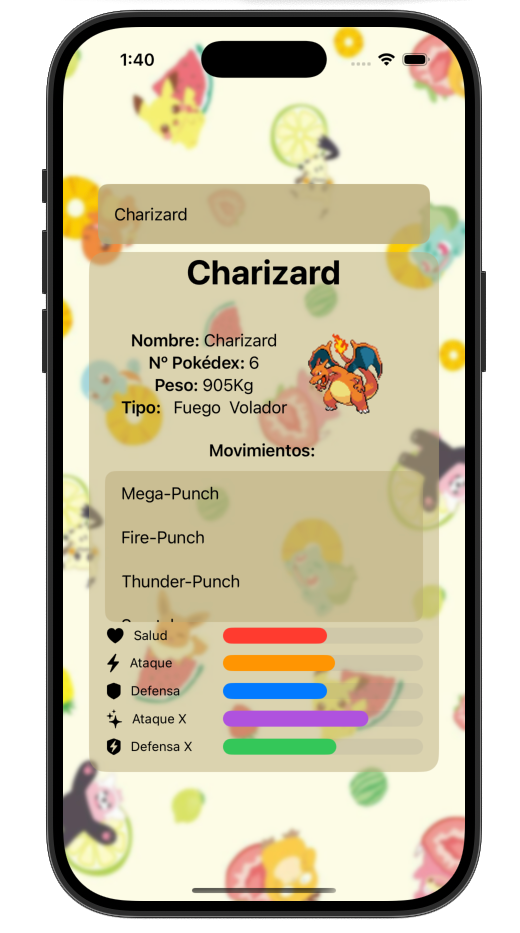
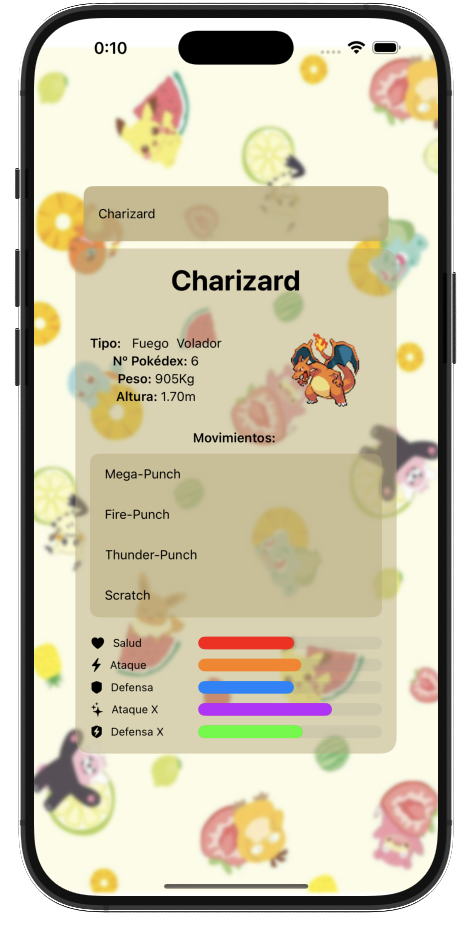
Code optimization and visual improvements

diff --git a/Pokemon Wiki/ContentView.swift b/Pokemon Wiki/ContentView.swift
@@ -8,12 +8,13 @@
 import SwiftUI
 
 struct ContentView: View {
-    //let defaultURL:String = "https://raw.githubusercontent.com/PokeAPI/sprites/master/sprites/pokemon/back/25.png"
+    @State var pokeName:String = ""
     @State var wrapper:ApiNetwork.Wrapper? = nil
-    @State var defaultWrapper:ApiNetwork.Wrapper = ApiNetwork.Wrapper(id: 0, name: "Sin nombre", weight: 0, sprites: ApiNetwork.Sprites(front_default: "https://raw.githubusercontent.com/PokeAPI/sprites/master/sprites/pokemon/0.png"), types: [ApiNetwork.Types(type: ApiNetwork.Type2(name: ""))],
+    @State var defaultWrapper:ApiNetwork.Wrapper = ApiNetwork.Wrapper(id: 0, name: "", weight: 0, height: 0 ,
+                                                                      sprites: ApiNetwork.Sprites(front_default: "https://raw.githubusercontent.com/PokeAPI/sprites/master/sprites/pokemon/0.png"),
+                                                                      types: [ApiNetwork.Types(type: ApiNetwork.Type2(name: ""))],
                                                                       moves: [],
                                                                       stats: [ApiNetwork.Stats(base_stat: 0, stat: ApiNetwork.Stat(name: "")), ApiNetwork.Stats(base_stat: 0, stat: ApiNetwork.Stat(name: "")), ApiNetwork.Stats(base_stat: 0, stat: ApiNetwork.Stat(name: "")), ApiNetwork.Stats(base_stat: 0, stat: ApiNetwork.Stat(name: "")), ApiNetwork.Stats(base_stat: 0, stat: ApiNetwork.Stat(name: ""))])
-    @State var pokeName:String = ""
     
     var body: some View {
         ZStack {
@@ -30,9 +31,9 @@ struct ContentView: View {
                         Task{
                             do{
                                 wrapper = try await ApiNetwork().getPokeByName(name: pokeName.lowercased())
-                                print(wrapper!.sprites.front_default)
+
                             }catch{
-                                print("ERROR")
+                                print("Error al obtener datos desde la API")
                             }
                         }
                     }
@@ -48,74 +49,57 @@ struct CreateResultView:View{
     var body: some View{
         
         VStack {
-            Text(mywrap.name.capitalized).font(.largeTitle).bold()
+            Text(mywrap.name.capitalized).font(.largeTitle).bold().padding(.top)
             HStack{
                 VStack{
-                    Text("Nombre: ").bold() + Text(mywrap.name.capitalized)
-                    Text("Nº Pokédex: ").bold() + Text("\(mywrap.id)")
-                    Text("Peso: ").bold() + Text("\(mywrap.weight)Kg")
                     HStack{
                         Text("Tipo: ").bold()
                         ForEach(mywrap.types, id: \.type.name) { type in
                             Text(typeTranslator(value: type.type.name))
                         }
                     }
-                    HStack{
-                        
-                    }
-                   
+                    Text("Nº Pokédex: ").bold() + Text("\(mywrap.id)")
+                    Text("Peso: ").bold() + Text("\(mywrap.weight)Kg")
+                    Text("Altura: ").bold() + Text(String(format: "%.2f", Float(mywrap.height) / 10) + "m")
                 }
+                Spacer()
                 AsyncImage(url: URL(string: mywrap.sprites.front_default))
                     .frame(width: 120, height: 120)
             }
             Text("Movimientos: ").bold()
             List(mywrap.moves, id: \.move.name){ move in
                 Text(move.move.name.capitalized).listRowSeparator(.hidden).listRowBackground(Color("component").opacity(0.5)).cornerRadius(10)
-            }.frame(maxWidth: 320, maxHeight: 200).listStyle(.plain).cornerRadius(10)
-            /*ForEach(mywrap.stats, id: \.stat.name){ stat in
-                Text(stat.stat.name).bold() + Text(String(stat.base_stat))
-            }*/
-            HStack{
-                Image(systemName: "heart.fill")
-                Text("Salud").font(.footnote)
-                Spacer()
-                Gauge(value: mapToRange(value: Double(mywrap.stats[0].base_stat), inputMin: 0.0, inputMax: 150.0, outputMin: 0.0, outputMax: 1.0)) {}.frame(minWidth: 200, maxWidth: 200, minHeight: 10, maxHeight: 10).tint(.red)
-            }
-            HStack{
-                Image(systemName: "bolt.fill")
-                Text("Ataque").font(.footnote)
-                Spacer()
-                Gauge(value: mapToRange(value: Double(mywrap.stats[1].base_stat), inputMin: 0.0, inputMax: 150.0, outputMin: 0.0, outputMax: 1.0)) {}.frame(minWidth: 200, maxWidth: 200, minHeight: 10, maxHeight: 10).tint(.orange)
-            }
-            HStack{
-                Image(systemName: "shield.fill")
-                Text("Defensa").font(.footnote)
-                Spacer()
-                Gauge(value: mapToRange(value: Double(mywrap.stats[2].base_stat), inputMin: 0.0, inputMax: 150.0, outputMin: 0.0, outputMax: 1.0)) {}.frame(minWidth: 200, maxWidth: 200, minHeight: 10, maxHeight: 10).tint(.blue)
-            }
-            HStack{
-                Image(systemName: "sparkles")
-                Text("Ataque X").font(.footnote)
-                Spacer()
-                Gauge(value: mapToRange(value: Double(mywrap.stats[3].base_stat), inputMin: 0.0, inputMax: 150.0, outputMin: 0.0, outputMax: 1.0)) {}.frame(minWidth: 200, maxWidth: 200, minHeight: 10, maxHeight: 10).tint(.purple)
-            }
-            HStack{
-                Image(systemName: "bolt.shield.fill")
-                Text("Defensa X").font(.footnote)
-                Spacer()
-                Gauge(value: mapToRange(value: Double(mywrap.stats[4].base_stat), inputMin: 0.0, inputMax: 150.0, outputMin: 0.0, outputMax: 1.0)) {}.frame(minWidth: 200, maxWidth: 200, minHeight: 10, maxHeight: 10).tint(.green)
-            }.padding(.bottom)
+            }.frame(maxWidth: 320, maxHeight: 200).listStyle(.plain).cornerRadius(10).padding(.bottom)
+
+            // Medidores de estadísiticas
+            gaugeStatView(systemImage: "heart.fill", text: "Salud", stat: 0, wrap: mywrap, color: "stat_red") //Salud
+            gaugeStatView(systemImage: "bolt.fill", text: "Ataque", stat: 1, wrap: mywrap, color: "stat_orange") //Ataque
+            gaugeStatView(systemImage: "shield.fill", text: "Defensa", stat: 2, wrap: mywrap, color: "stat_blue") //Defensa
+            gaugeStatView(systemImage: "sparkles", text: "Ataque X", stat: 3, wrap: mywrap, color: "stat_purple") //Ataque X
+            gaugeStatView(systemImage: "bolt.shield.fill", text: "Defensa X", stat: 4, wrap: mywrap, color: "stat_green").padding(.bottom) //Defensa X
             
         }.padding(.horizontal)
             .frame(maxWidth: 350)
-            .frame(height: 520)
+            .frame(height: 550)
             .background(Color("component").opacity(0.5))
             .cornerRadius(16)
     }
 }
 
-func tryToPrint(value:String){
-    print(value)
+struct gaugeStatView:View {
+    let systemImage:String
+    let text:String
+    let stat:Int
+    let wrap:ApiNetwork.Wrapper
+    let color:String
+    var body: some View {
+        HStack{
+            Image(systemName: systemImage)
+            Text(text).font(.footnote)
+            Spacer()
+            Gauge(value: mapToRange(value: Double(wrap.stats[stat].base_stat), inputMin: 0.0, inputMax: 150.0, outputMin: 0.0, outputMax: 1.0)) {}.frame(minWidth: 200, maxWidth: 200, minHeight: 10, maxHeight: 10).tint(Color(color))
+        }
+    }
 }
 
 func mapToRange(value: Double, inputMin: Double, inputMax: Double, outputMin: Double, outputMax: Double) -> Double {
@@ -162,7 +146,7 @@ func typeTranslator(value:String) -> String{
     case "fairy":
         return "Hada"
     default:
-        return "Sin tipo"
+        return "-"
     }
 }
 #Preview {

diff --git a/Pokemon Wiki/Backend/ApiNetwork.swift b/Pokemon Wiki/Backend/ApiNetwork.swift
@@ -13,6 +13,7 @@ class ApiNetwork{
         let id:Int
         let name:String
         let weight:Int
+        let height:Int
         let sprites:Sprites
         let types:[Types]
         let moves:[Moves]
